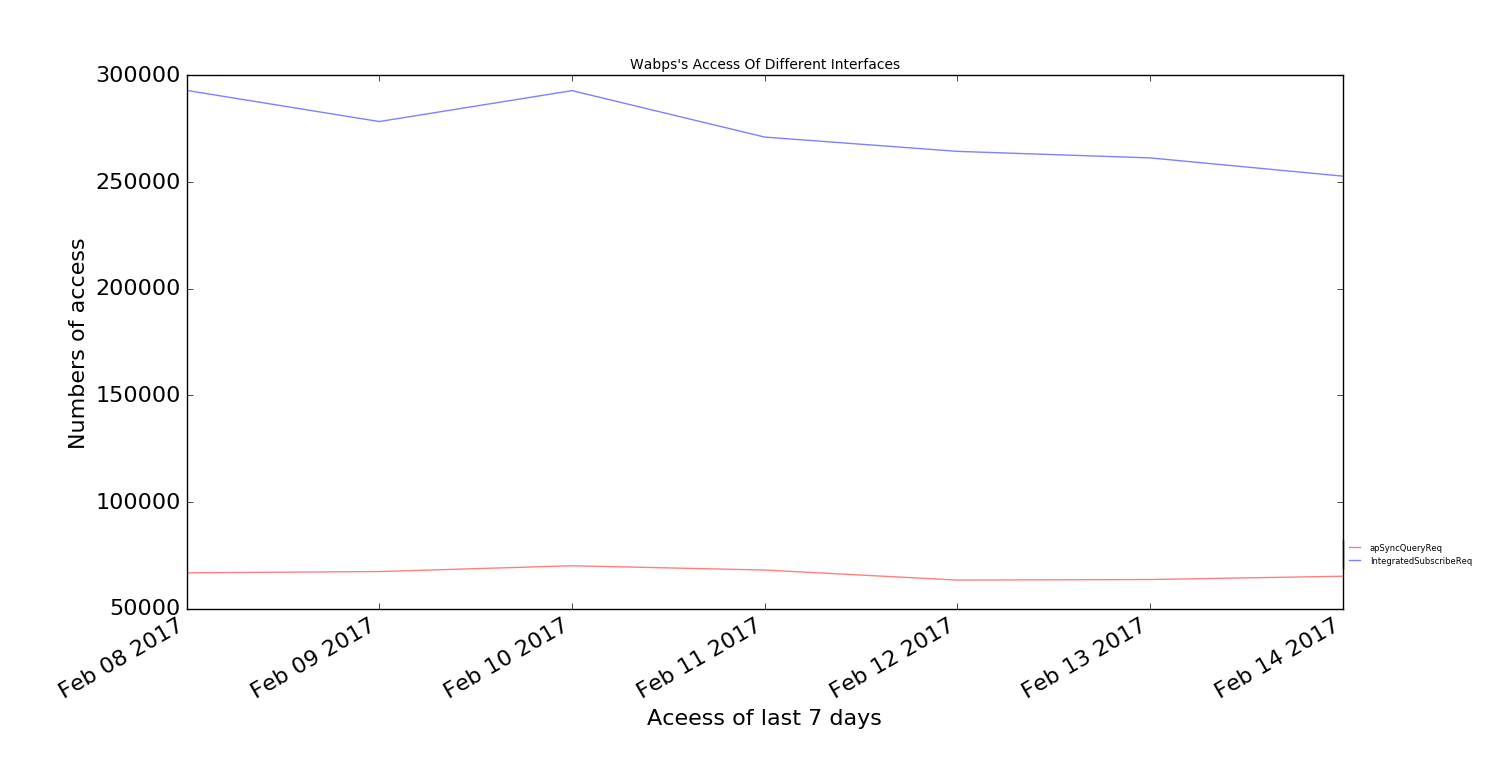
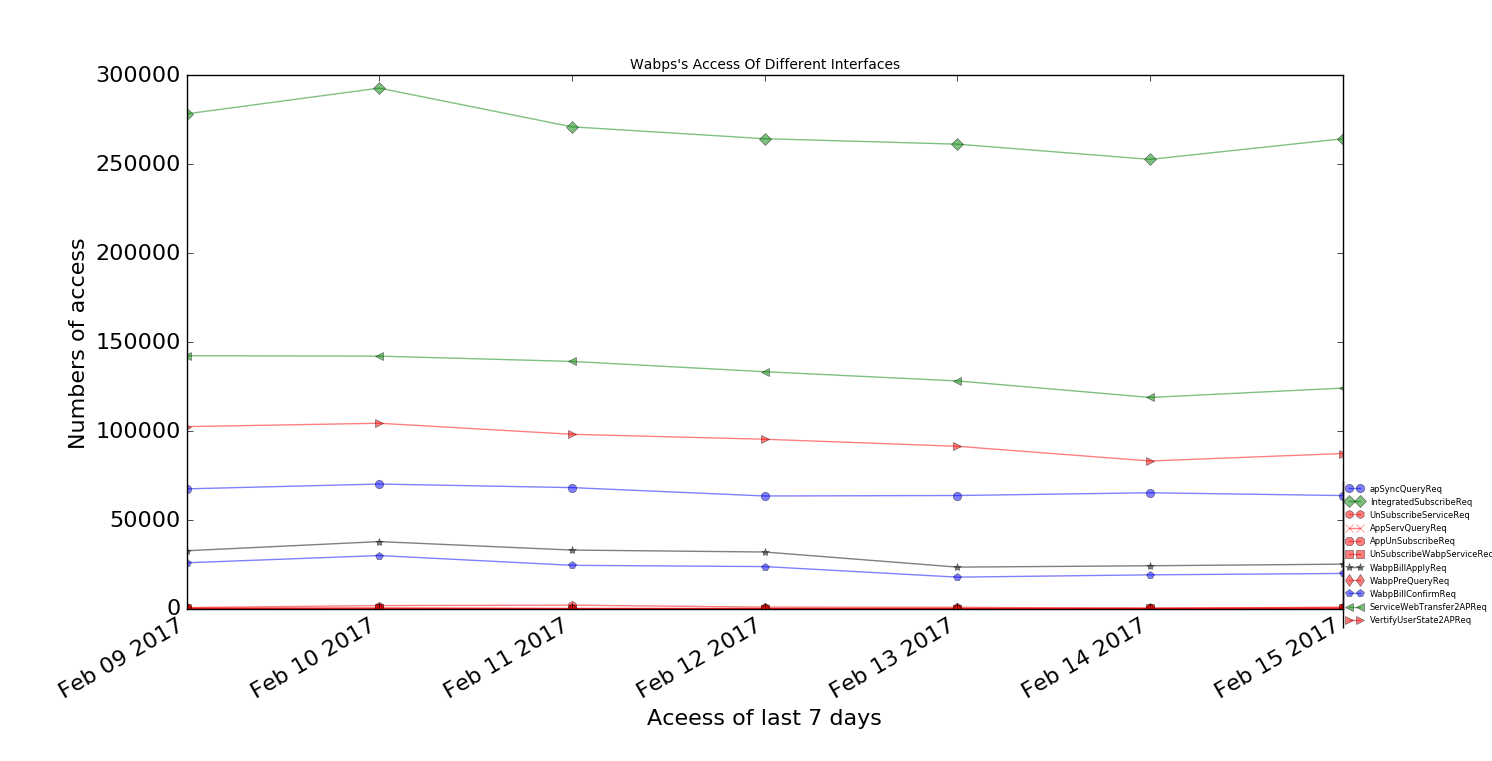
Add files via upload

diff --git a/wabps_img.py b/wabps_img.py
@@ -1,0 +1,83 @@
+#!/usr/bin/env python
+#---coding:UTF-8---
+#本脚本用来输出网页计费新框架的各个接口最近其他的访问量的图形
+#version:1.0.0
+#release:2017/02/15
+#author:lzh phone:15811869179
+
+import csv
+from datetime import datetime
+from matplotlib import pyplot as plt
+
+filename="/home/craneliu/python/wabps_img/Last7_total.csv"
+
+with open(filename) as f:
+     readers=csv.reader(f)
+
+     dates=[]
+     apSyncQueryReq_nums=[]
+     IntegratedSubscribeReq_nums=[]
+     UnSubscribeServiceReq_nums=[]
+     AppServQueryReq_nums = []
+     AppUnSubscribeReq_nums = []
+     UnSubscribeWabpServiceReq_nums = []
+     WabpBillApplyReq_nums = []
+     WabpPreQueryReq_nums = []
+     WabpBillConfirmReq_nums = []
+     ServiceWebTransfer2APReq_nums = []
+     VertifyUserState2APReq_nums = []
+
+     for reader in readers:
+         date=datetime.strptime(reader[0],'%Y-%m-%d')
+         apSyncQueryReq_num=int(reader[1])
+         IntegratedSubscribeReq_num=int(reader[2])
+         UnSubscribeServiceReq_num = int(reader[3])
+         AppServQueryReq_num = int(reader[4])
+         AppUnSubscribeReq_num = int(reader[5])
+         UnSubscribeWabpServiceReq_num = int(reader[6])
+         WabpBillApplyReq_num = int(reader[7])
+         WabpPreQueryReq_num = int(reader[8])
+         WabpBillConfirmReq_num = int(reader[9])
+         ServiceWebTransfer2APReq_num = int(reader[10])
+         VertifyUserState2APReq_num = int(reader[11])
+
+         dates.append(date)
+         apSyncQueryReq_nums.append(apSyncQueryReq_num)
+         IntegratedSubscribeReq_nums.append(IntegratedSubscribeReq_num)
+         UnSubscribeServiceReq_nums.append(UnSubscribeServiceReq_num)
+         AppServQueryReq_nums.append(AppServQueryReq_num)
+         AppUnSubscribeReq_nums.append(AppUnSubscribeReq_num)
+         UnSubscribeWabpServiceReq_nums.append(UnSubscribeWabpServiceReq_num)
+         WabpBillApplyReq_nums.append(WabpBillApplyReq_num)
+         WabpPreQueryReq_nums.append(WabpPreQueryReq_num)
+         WabpBillConfirmReq_nums.append(WabpBillConfirmReq_num)
+         ServiceWebTransfer2APReq_nums.append(ServiceWebTransfer2APReq_num)
+         VertifyUserState2APReq_nums.append(VertifyUserState2APReq_num)
+
+
+#定义图片的各种参数（如背景颜色等）
+fig=plt.figure(dpi=128, figsize=(20,6),facecolor='yellow',edgecolor='green')
+#在图片上画各种接口的访问图形
+plt.plot(dates,apSyncQueryReq_nums,'-o',c='blue',alpha=0.5,label='apSyncQueryReq')
+plt.plot(dates,IntegratedSubscribeReq_nums,'-D',c='green',alpha=0.5,label='IntegratedSubscribeReq')
+plt.plot(dates,UnSubscribeServiceReq_nums,'-h',c='red',alpha=0.5,label='UnSubscribeServiceReq')
+plt.plot(dates,AppServQueryReq_nums,'-x',c='red',alpha=0.5,label='AppServQueryReq')
+plt.plot(dates,AppUnSubscribeReq_nums,'-8',c='red',alpha=0.5,label='AppUnSubscribeReq')
+plt.plot(dates,UnSubscribeWabpServiceReq_nums,'-s',c='red',alpha=0.5,label='UnSubscribeWabpServiceReq')
+plt.plot(dates,WabpBillApplyReq_nums,'-*',c='black',alpha=0.5,label='WabpBillApplyReq')
+plt.plot(dates,WabpPreQueryReq_nums,'-d',c='red',alpha=0.5,label='WabpPreQueryReq')
+plt.plot(dates,WabpBillConfirmReq_nums,'-p',c='blue',alpha=0.5,label='WabpBillConfirmReq')
+plt.plot(dates,ServiceWebTransfer2APReq_nums,'-<',c='green',alpha=0.5,label='ServiceWebTransfer2APReq')
+plt.plot(dates,VertifyUserState2APReq_nums,'->',c='red',alpha=0.5,label='VertifyUserState2APReq')
+
+plt.legend(bbox_to_anchor=(1,.102), loc=10,ncol=1, mode="expand", borderaxespad=0.,fontsize=6)
+
+title="Wabps's Access Of Different Interfaces"
+plt.title(title,fontsize=10)
+plt.xlabel('Aceess of last 7 days',fontsize=16)
+fig.autofmt_xdate()
+plt.ylabel("Numbers of access",fontsize=16)
+plt.tick_params(axis='both', which='major', labelsize=16)
+
+plt.show()
+    
